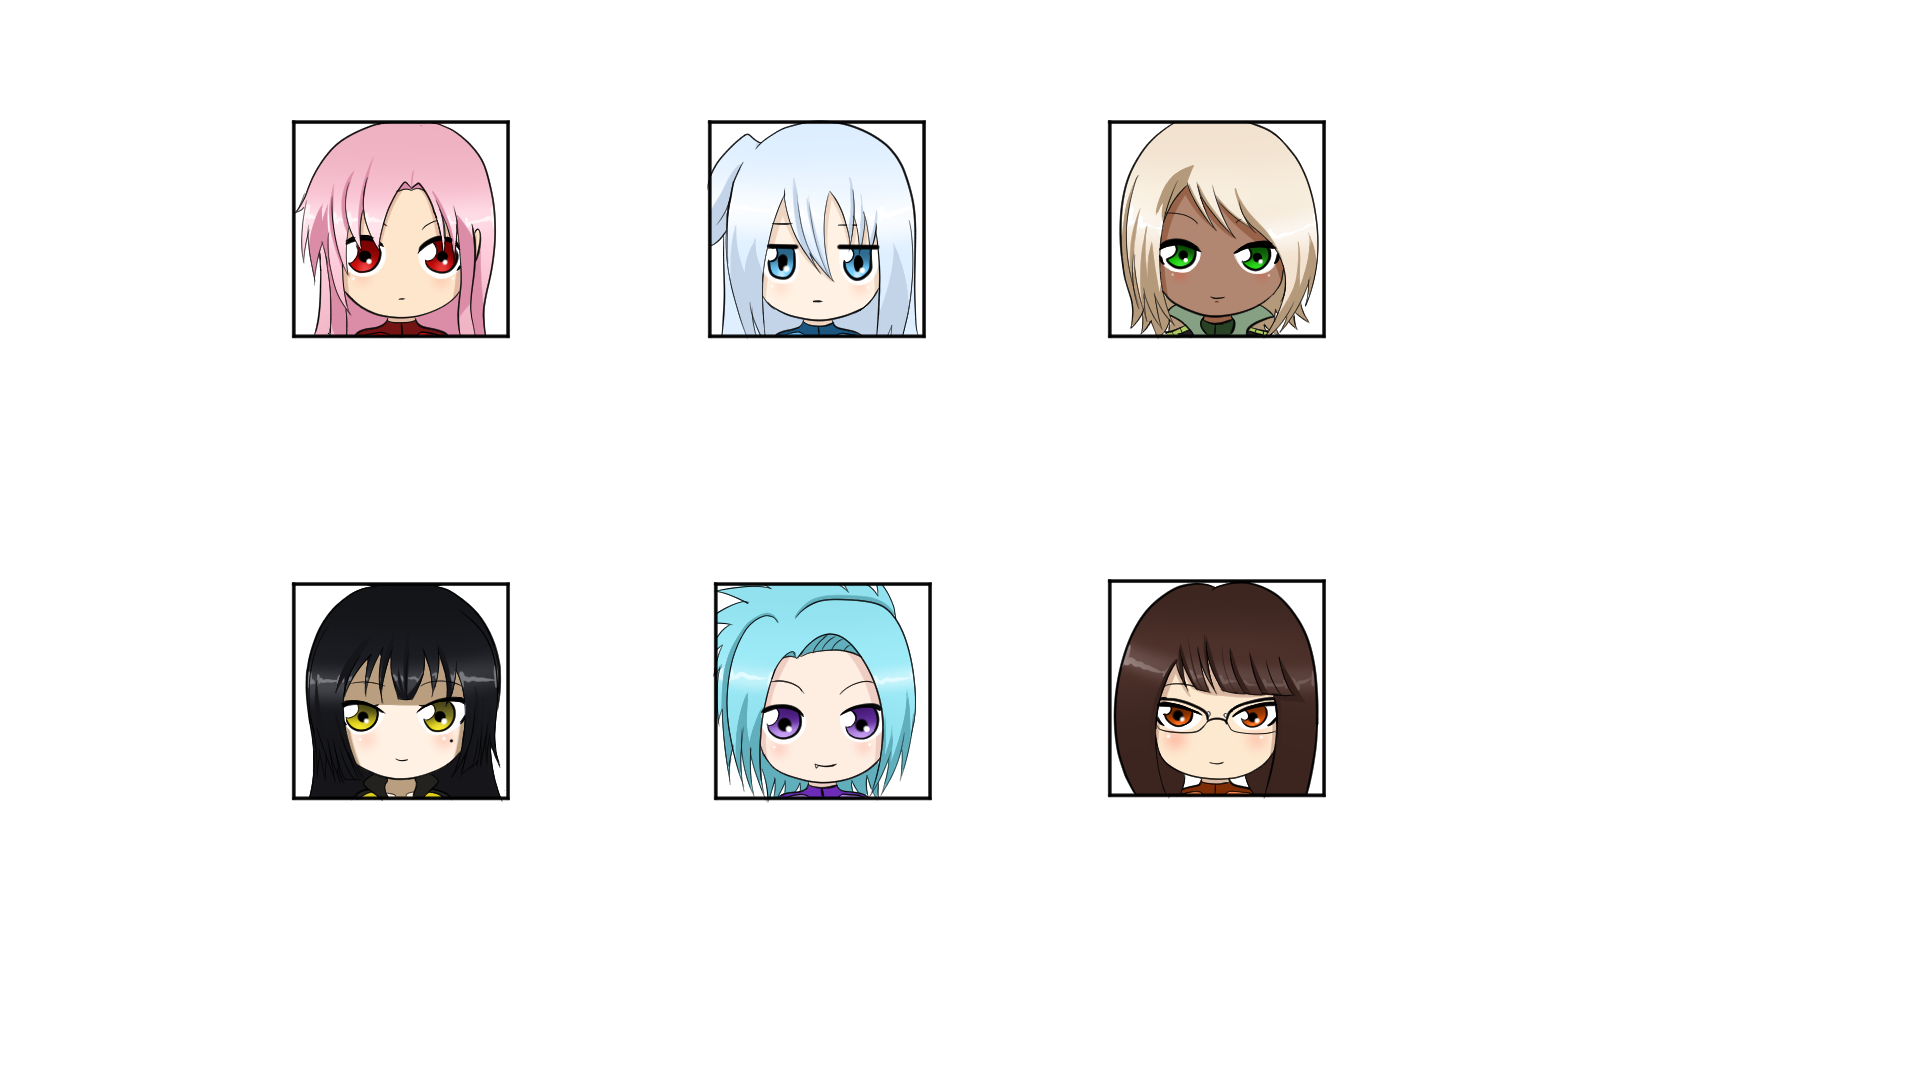
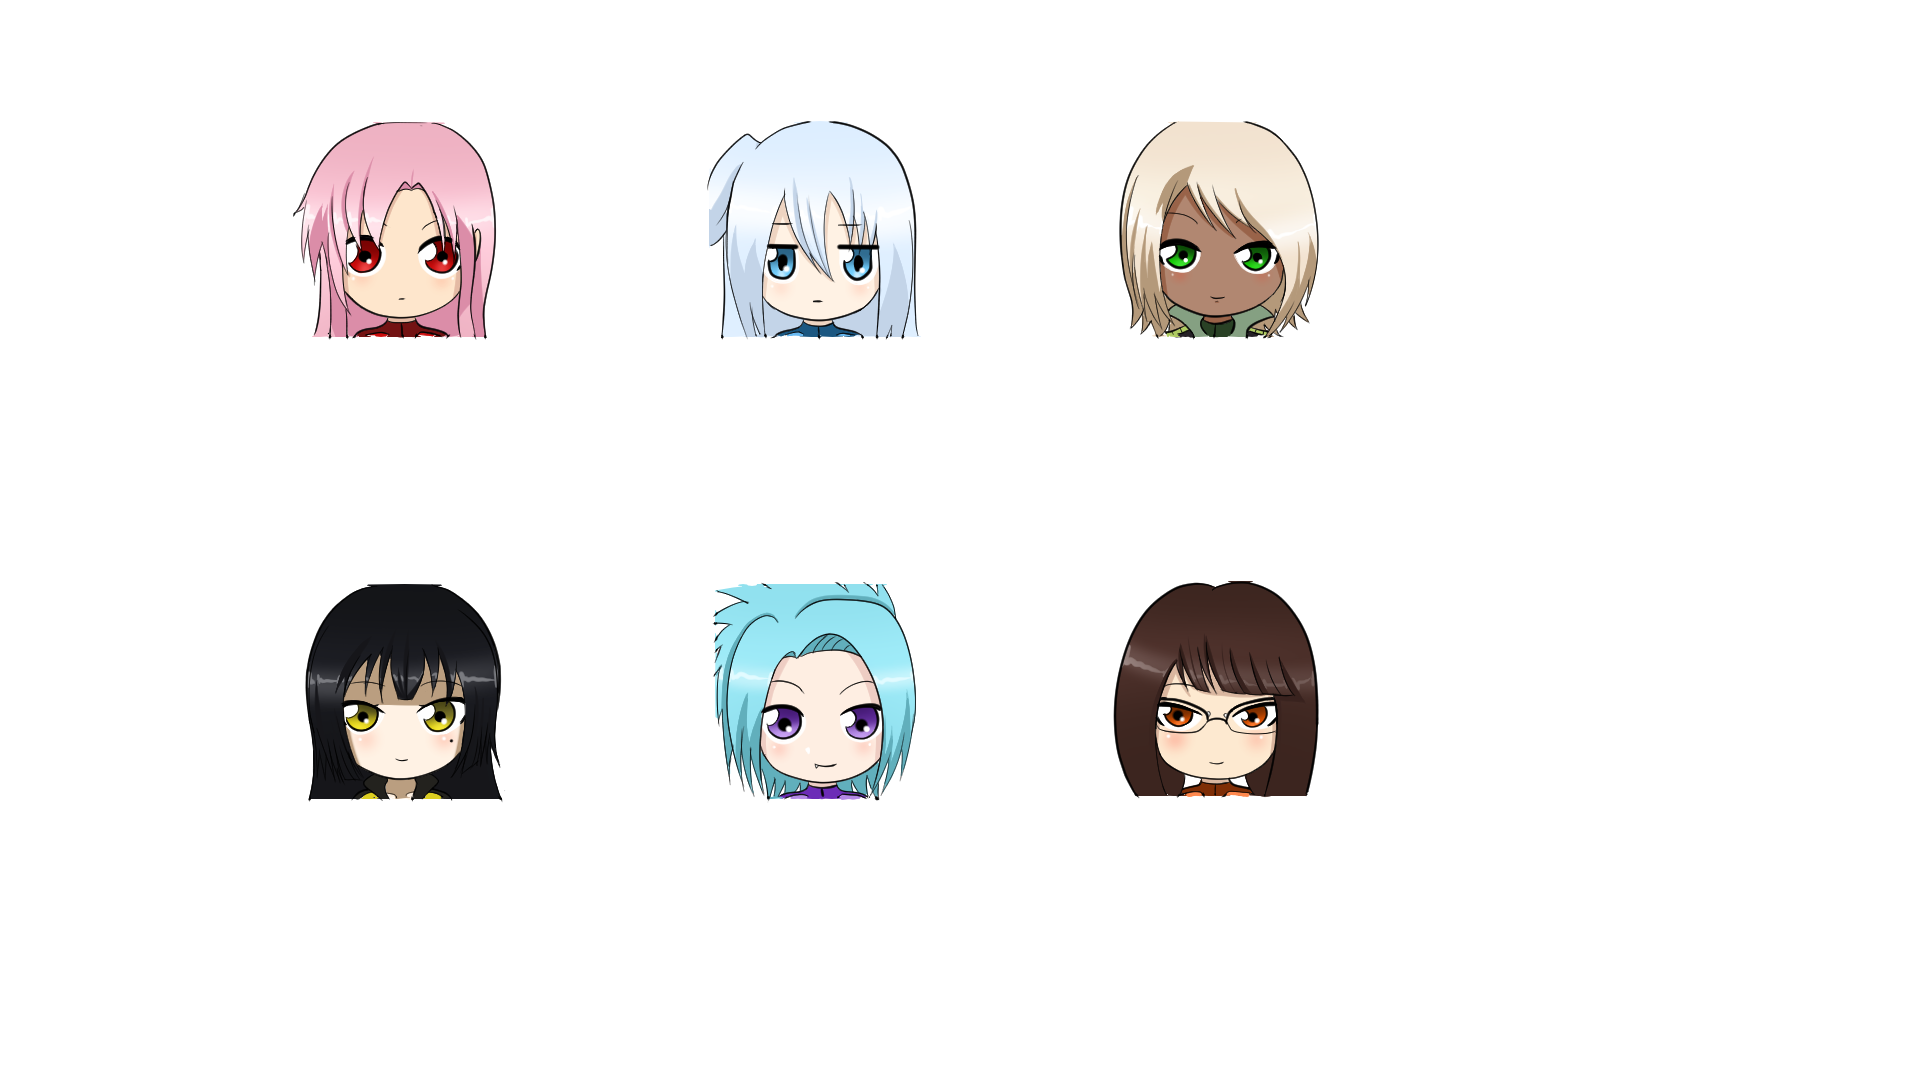
Added chibi sprites without border, changed the horizontal transition of menus and croped the border for chibi

diff --git a/Assets/Scripts/MenuTransition.cs b/Assets/Scripts/MenuTransition.cs
@@ -1,20 +1,19 @@
-using System.Collections;
-using System.Collections.Generic;
-using UnityEngine;
+using UnityEngine;
 [System.Serializable]
 public struct MenuTransition
 {
     public KeyCode key;
     public MenuSelect menu;
     public Vector3 flow;
-    public bool GetKeyDown()
-    {
+    public bool GetKeyDown(){
         return Input.GetKeyDown(key);
     }
     public void Open(){
-        menu?.Open(new Vector3(flow.x*18,flow.y*10));
+        float f=(float)Screen.width/(float)Screen.height;
+        menu?.Open(new Vector3(flow.x*f*10,flow.y*10));
     }
     public void Close(MenuSelect m){
-        m.Close(new Vector3(-flow.x*18,-flow.y*10));
+        float f=(float)Screen.width/(float)Screen.height;
+        m.Close(new Vector3(-flow.x*f*10,-flow.y*10));
     }
 }
